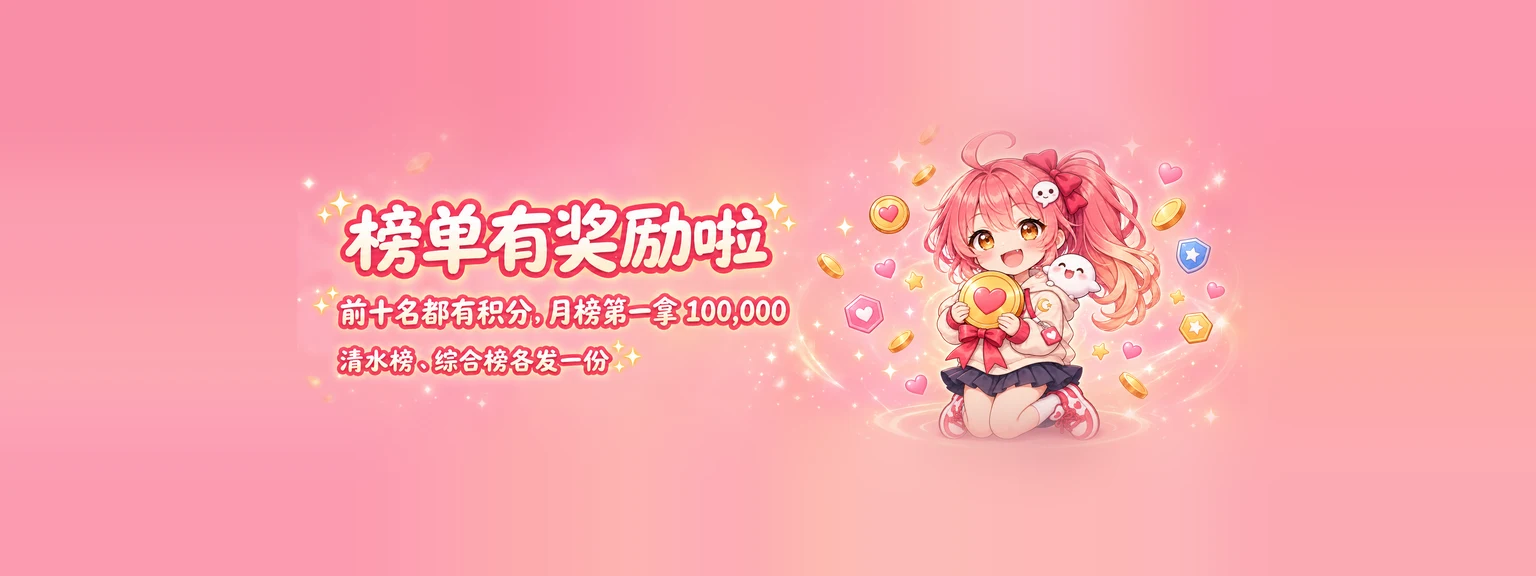
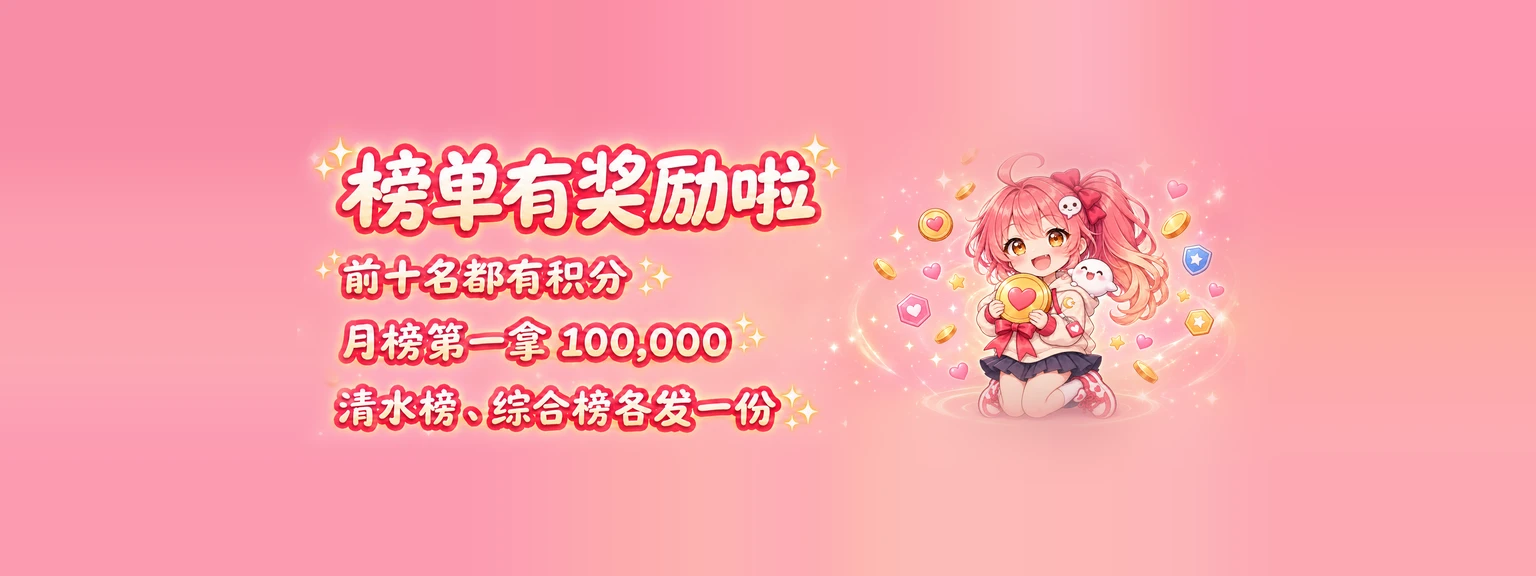
feat(home): announcement pictures in four larger lines, all five languages
Redrawn after the art director's review so the subtitle reads on 320px phones;
Japanese and Korean now have their own pictures and screen-reader words.

Update: 2026-11-03-board-rewards

Changed region(s): [[0.1875, 0.2188, 0.8125, 0.7812]]

diff --git a/web/src/lib/home-announcements.ts b/web/src/lib/home-announcements.ts
@@ -29,11 +29,13 @@ export const HOME_ANNOUNCEMENTS: HomeAnnouncement[] = [
     path: "/blog/creators/card-rewards",
     from: null,
     until: 30 * DAY,
-    // 圖由美工交（字畫在圖裡）；日文、韓文的圖還沒好，那兩語先不出現
+    // 圖由美工交（字畫在圖裡），五語各一張
     posters: {
       "zh-Hant": "/announcements/card-rewards-zh-Hant.webp",
       "zh-Hans": "/announcements/card-rewards-zh-Hans.webp",
       en: "/announcements/card-rewards-en.webp",
+      ja: "/announcements/card-rewards-ja.webp",
+      ko: "/announcements/card-rewards-ko.webp",
     },
   },
 ];
